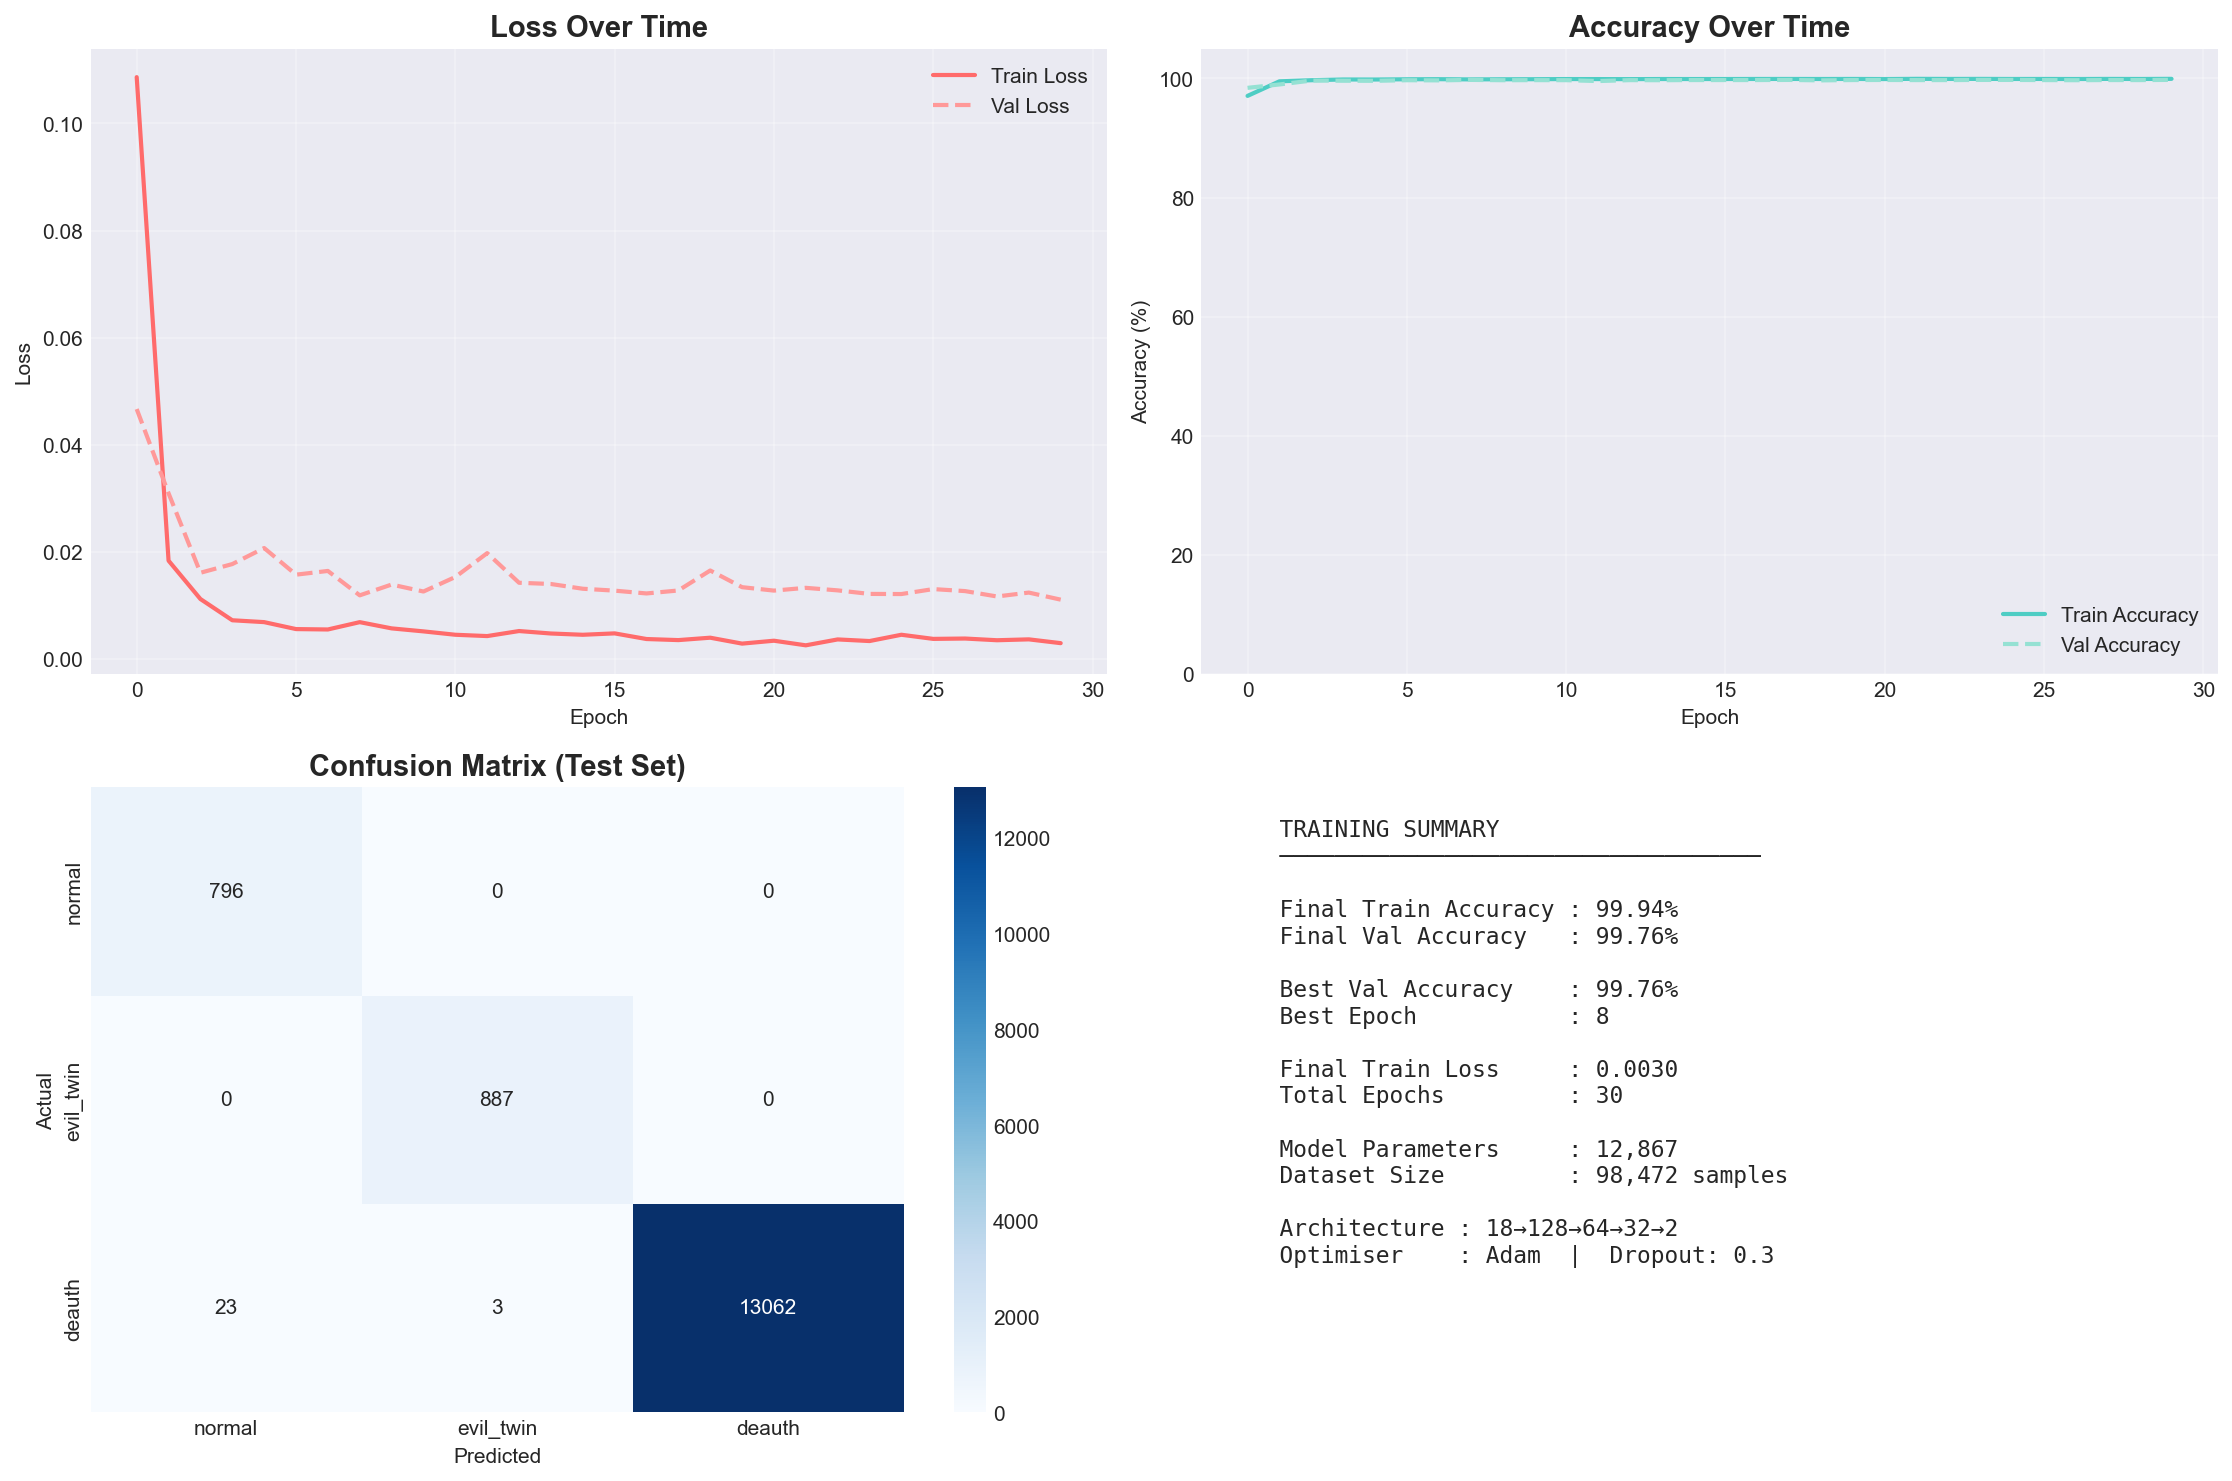
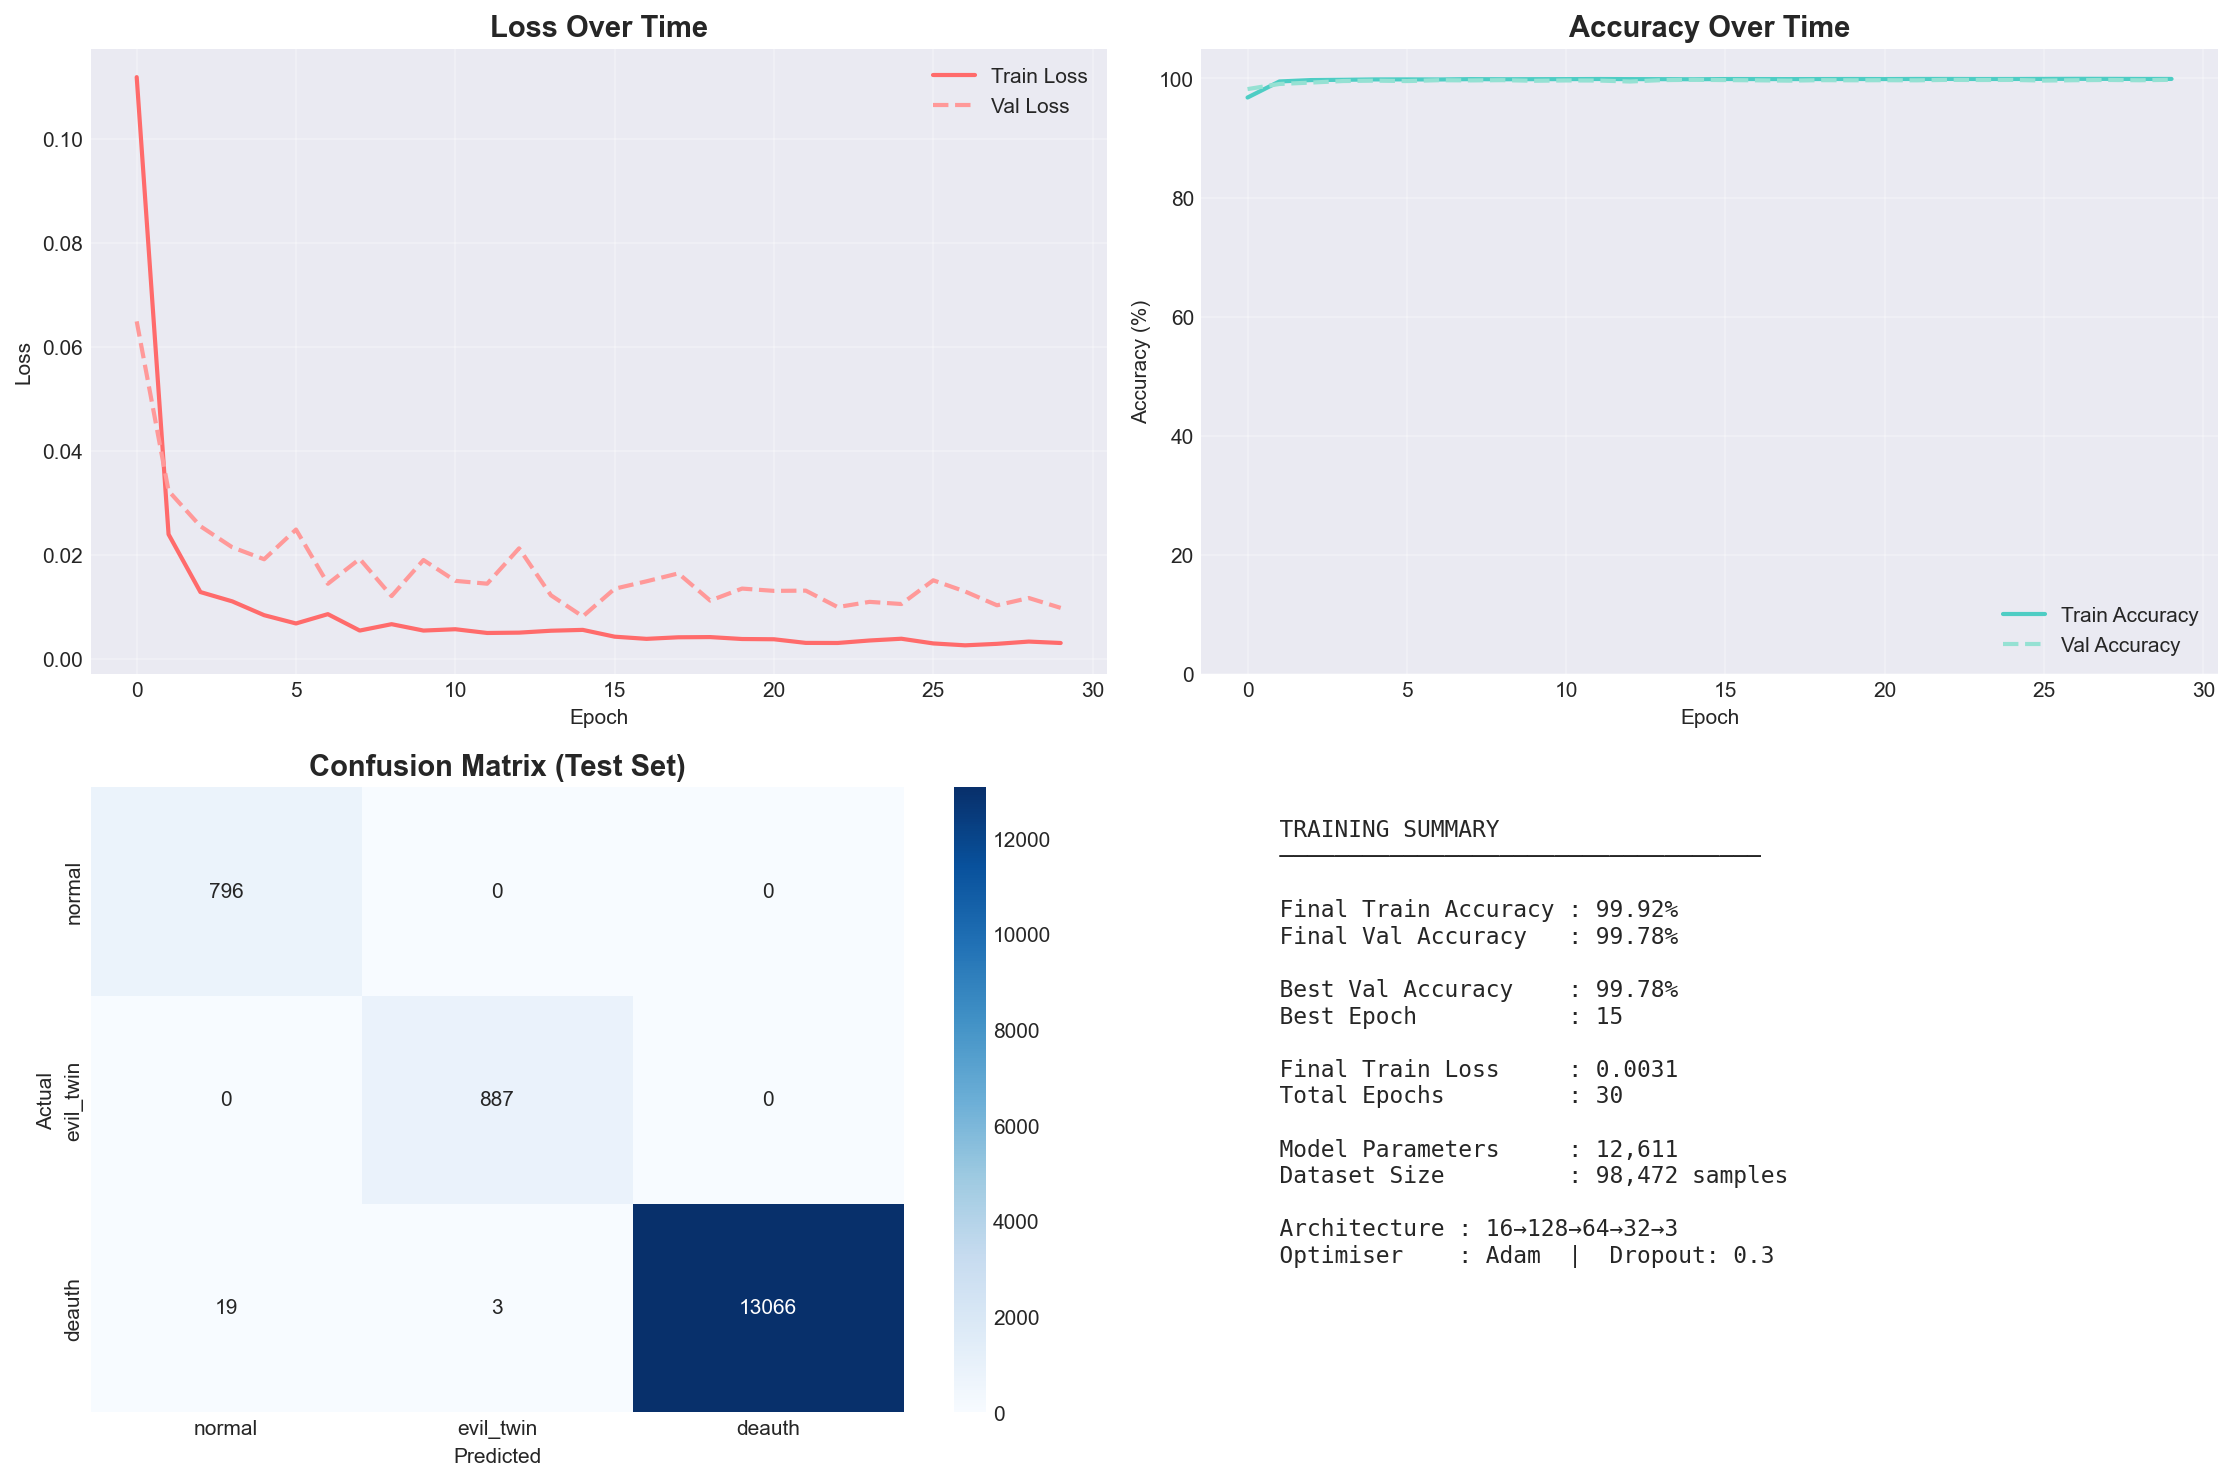
Update model files and comment out unused feature columns in train_model.py

diff --git a/ai-wids-complete/src/train_model.py b/ai-wids-complete/src/train_model.py
@@ -129,7 +129,7 @@ FEATURE_COLS = [
     "wlan_fc.type",               # Frame type: 0=management, 1=control, 2=data
     "wlan_fc.subtype",            # Subtype within the type category (0–15)
     "wlan.sa",                    # Source MAC address (converted to int)
-    "wlan.ta",                    # Transmitter MAC address (converted to int)
+    # "wlan.ta",                    # Transmitter MAC address (converted to int)
     "wlan.ra",                    # Receiver MAC address (converted to int)
     "wlan.seq",                   # Sequence number — increments with each new frame from a device
     "wlan_fc.ds",                 # To/From DS bits — indicates infrastructure mode
@@ -146,7 +146,7 @@ FEATURE_COLS = [
     # they encode absolute capture time and perfectly separate classes recorded
     # at different times — this is temporal data leakage, not a real signal.
     "wlan_radio.signal_dbm",        # Received signal strength in dBm (e.g. -65)
-    "radiotap.channel.flags.ofdm",# 1 if the channel uses OFDM modulation
+    # "radiotap.channel.flags.ofdm",# 1 if the channel uses OFDM modulation
     "radiotap.channel.flags.cck", # 1 if the channel uses CCK modulation
     # frame.len excluded: evil twin device always produces 392-byte beacons while
     # legitimate AP averages 270 bytes — model learns device identity, not attack.
